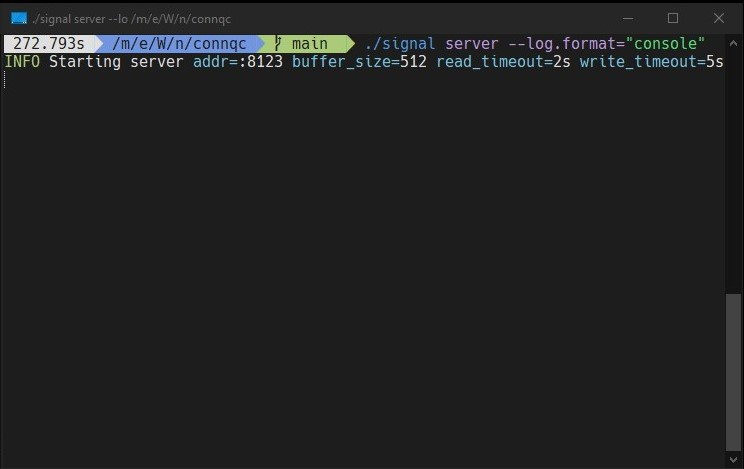
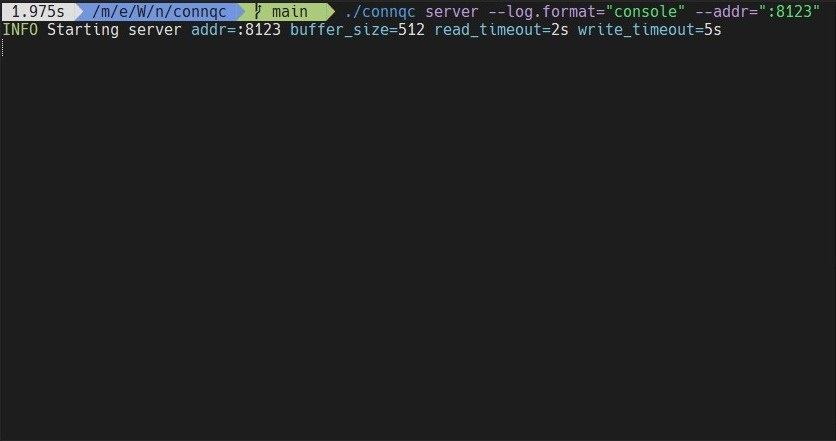
feat: rename signal to connqc and update README

Changed region(s): [[0.0, 0.0, 1.0, 0.1474], [0.9583, 0.619, 1.0, 0.9728]]

diff --git a/cmd/connqc/main.go b/cmd/connqc/main.go
@@ -31,11 +31,11 @@ var version = "¯\\_(ツ)_/¯"
 var commands = []*cli.Command{
 	{
 		Name:  "client",
-		Usage: "Run the signal client",
+		Usage: "Run the connqc client",
 		Flags: cmd.Flags{
 			&cli.StringFlag{
 				Name:     flagAddr,
-				Usage:    "The address of a signal server",
+				Usage:    "The address of a connqc server",
 				Required: true,
 				EnvVars:  []string{strcase.ToSNAKE(flagAddr)},
 			},
@@ -68,11 +68,11 @@ var commands = []*cli.Command{
 	},
 	{
 		Name:  "server",
-		Usage: "Run the signal server",
+		Usage: "Run the connqc server",
 		Flags: cmd.Flags{
 			&cli.StringFlag{
 				Name:    flagAddr,
-				Usage:   "The address to listen on for signals",
+				Usage:   "The address to listen on for probe messages",
 				Value:   ":8123",
 				EnvVars: []string{strcase.ToSNAKE(flagAddr)},
 			},
@@ -115,7 +115,8 @@ func realMain() (code int) {
 	}()
 
 	app := cli.NewApp()
-	app.Name = "signal"
+	app.Name = "connqc"
+	app.Description = "Connection quality control checker"
 	app.Version = version
 	app.Commands = commands
 

diff --git a/doc.go b/doc.go
@@ -1,3 +1,3 @@
-// Package connqc contains the signal server and client implementations,
+// Package connqc contains the connqc server and client implementations,
 // as well as the probe message encoder and decoder.
 package connqc

diff --git a/message.go b/message.go
@@ -7,7 +7,7 @@ import (
 	"io"
 )
 
-// Message represents a signal message.
+// Message represents a connqc message.
 type Message interface {
 	unexported()
 }

diff --git a/README.md b/README.md
@@ -15,7 +15,7 @@
     </a>
 </p>
 
-`signal` is a tool to control the quality of the network transport between multiple regions.
+`connqc` is a tool to control the quality of the network transport between multiple regions.
 It consists of a server that listens for TCP probing messages, and a client that sends said messages.
 The client logs the probing duration and warns if some messages get lost.
 
@@ -34,13 +34,13 @@ The client logs the probing duration and warns if some messages get lost.
 Start the server. The default address is `:8123`:
 
 ```shell
-$ signal server 
+$ connqc server 
 ```
 
 or specify a port:
 
 ```shell
-$ signal server --addr=":1234"
+$ connqc server --addr=":1234"
 ```
 
 #### More Options
@@ -49,7 +49,7 @@ The `server` command supports the following additional arguments.
 
 ```shell
 OPTIONS:
-   --addr value           The address to listen on for signals (default: ":8123") [$ADDR]
+   --addr value           The address to listen on for probe messages (default: ":8123") [$ADDR]
    --buffer-size value    The size of the read buffer used by the server (default: 512) [$BUFFER_SIZE]
    --read-timeout value   The duration after which the server should timeout when reading from a connection (default: 2s) [$READ_TIMEOUT]
    --write-timeout value  The duration after which the server should timeout when writing to a connection (default: 5s) [$WRITE_TIMEOUT]
@@ -71,22 +71,22 @@ $ firewall-cmd --remove-port=8123/tcp
 
 ### Client
 
-Start the client with the signal server's address:
+Start the client with the connqc server's address:
 
 ```shell
-$ signal client --addr="127.0.0.1:8123"
+$ connqc client --addr="127.0.0.1:8123"
 ```
 
 To enable more human-readable logs, set the log format:
 
 ```shell
-$ signal client --addr="127.0.0.1:8123" --log.format="console"
+$ connqc client --addr="127.0.0.1:8123" --log.format="console"
 ```
 
 To increase the amount of sent requests, reduce the interval:
 
 ```shell
-$ signal client --addr="127.0.0.1:8123" --interval="200ms"
+$ connqc client --addr="127.0.0.1:8123" --interval="200ms"
 ```
 
 #### More Options
@@ -95,7 +95,7 @@ The `client` command supports the following additional arguments.
 
 ```shell
 OPTIONS:
-   --addr value           The address of a signal server [$ADDR]
+   --addr value           The address of a connqc server [$ADDR]
    --backoff value        Duration to wait for before retrying to connect to the server (default: 1s) [$BACKOFF]
    --interval value       Interval at which to send probe messages to the server (default: 1s) [$INTERVAL]
    --read-timeout value   The duration after which the client should timeout when reading from a connection (default: 2s) [$READ_TIMEOUT]
